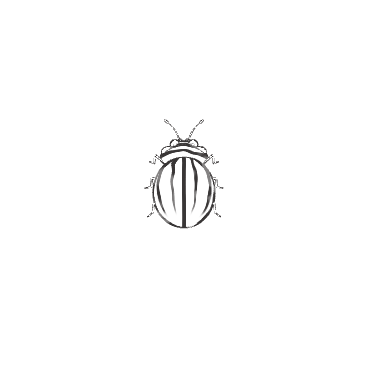
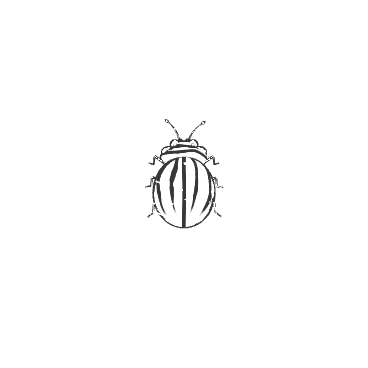
Nyrro as a real pen sketch everywhere (loader and header pictures redrawn); larger beetle that comes to look at you anywhere; footer as tall as the hero film; note at top left
- Nyrro: inky lines that swell and thin strongly, ragged edges, small pen lifts on the shell, wings in quick strokes; the loader's and header's first pictures (nyrro-20/64.png) redrawn from it, so the old clean drawing never shows
- Hero: 60px below the short line and above the longer line
- Film: beetle larger; it looks at you head on, anywhere in the box (no more side peeks)
- Footer: the same height as the hero film; the grey panel on Home and About a little darker
- About Nyrro: the button and its note at the top left of the film, the note kept inside the film (it scrolls)

Changed region(s): [[0.3886, 0.3288, 0.5978, 0.5978], [0.4484, 0.5679, 0.538, 0.6277], [0.4484, 0.3288, 0.4783, 0.3587]]

diff --git a/components/home/HeroFilm.tsx b/components/home/HeroFilm.tsx
@@ -276,7 +276,9 @@ void main(){
   // sketch: a pen in a hand, the line a little heavier here and lighter there along its length (fixed on the beetle)
   // (the large drawn parts, the shell and body, vary most; the fine legs and feelers stay whole)
   float bigPart = step(0.5, merid + rings);
-  pressure *= mix(1.0, 0.68 + 0.64 * noise(vObj.xz * 3.2 + vObj.y * 2.3 + 1.7), sketch * (0.35 + 0.65 * bigPart));
+  pressure *= mix(1.0, 0.4 + 1.3 * noise(vObj.xz * 4.5 + vObj.y * 3.1 + 1.7), sketch * (0.45 + 0.55 * bigPart));
+  // and its edge is ragged, as ink on paper
+  pressure *= mix(1.0, 0.8 + 0.4 * noise(vObj.xz * 26.0 + vObj.y * 19.0), sketch);
   // the outline: where the surface turns away from you
   float ndv = abs(dot(N, V));
   float fw = max(fwidth(ndv), 1e-4);
@@ -319,7 +321,7 @@ void main(){
     a = max(a, dotv * step(hash(cell + 3.1), dens) * 0.85);
   }
   // sketch: the pen lifts now and then, so lines stop short and start again; nothing is closed off neatly
-  a *= mix(1.0, smoothstep(0.14, 0.26, noise(vObj.xz * 8.5 + vObj.y * 5.5 + 11.0)), sketch * step(0.5, merid + rings));
+  a *= mix(1.0, smoothstep(0.08, 0.16, noise(vObj.xz * 14.0 + vObj.y * 9.0 + 11.0)), sketch * step(0.5, merid + rings));
   // far back in the haze the drawing fades
   a *= 1.0 - smoothstep(fogNear, fogFar, vDepth);
   // nothing is filled: only the ink shows; the paper is left as it is
@@ -788,7 +790,7 @@ export default function HeroFilm({ palette, place = "foot", from }: { palette?: 
     // further off than in the old full-width strip, so in a half-width box it is seen whole with room round it; and further
     // still in a box that is nearly as tall as it is wide, so it is the same size against the box's width everywhere
     const hb0 = host.getBoundingClientRect();
-    const D_K = 0.95 * clamp(Math.max(200, hb0.height) / Math.max(300, hb0.width) / 0.62, 1, 1.4); // a large beetle, close to you // one beetle everywhere: the same beetle, framed and flying as at the foot
+    const D_K = 0.78 * clamp(Math.max(200, hb0.height) / Math.max(300, hb0.width) / 0.62, 1, 1.4); // a large beetle, close to you // one beetle everywhere: the same beetle, framed and flying as at the foot
     const CLAY = palette ?? GREY; // the painting's own colours: its smoke and the paint the beetle leaves take them
     const box = host.getBoundingClientRect();
     const PW = Math.max(300, Math.round(box.width));
@@ -1035,7 +1037,7 @@ void main(){
       if (mayPerch && !out && t - wand.lastLook > 9) {
         const headingToSide = Math.cos(wand.h) * Math.sign(nx) > -0.2; // near a side and not flying away from it
         // mostly it comes to meet you face to face; now and then it settles at the side it has reached instead
-        if (Math.abs(nx) > 0.6 && headingToSide && Math.random() < 0.35) {
+        if (Math.abs(nx) > 0.6 && headingToSide && Math.random() < 0) { // (the side peek is set aside: it always comes to face you)
           fly.perch = true;
           fs.perchSide = nx > 0 ? 1 : -1;
           const end = onFrame(fs.perchSide * 0.95, TOP ? clamp(ny, -0.75, -0.3) : clamp(ny, Math.max(FLOOR_N, Math.min(-0.35, CEIL_N - 0.2)), Math.min(CEIL_N - 0.1, 0.2)), clamp(camera.position.distanceTo(fly.p), 7 * D_K, 8.5 * D_K), new THREE.Vector3());
@@ -1049,7 +1051,7 @@ void main(){
           fly.face = true;
           // it comes in to meet you: towards the middle and a little nearer, low enough that its raised wings and its whole
           // head stay in the frame
-          const spot = onFrame(clamp(nx * 0.4 + Math.cos(wand.h) * 0.15, -0.45, 0.45), TOP ? clamp(ny - 0.1, -0.8, -0.55) : clamp(ny, -0.2, 0.12), 10.5 * D_K, new THREE.Vector3()); // it hangs before you whole, wings and legs in the box
+          const spot = onFrame(clamp(nx * 0.85 + Math.cos(wand.h) * 0.2, -0.6, 0.6), TOP ? clamp(ny - 0.1, -0.8, -0.55) : clamp(ny + rnd(-0.15, 0.15), -0.3, 0.15), 10.5 * D_K, new THREE.Vector3()); // it hangs before you whole, wings and legs in the box
           lift(spot);
           fly.pts = [spot];
           fly.idx = 0;

diff --git a/components/copilot/beetle3d.ts b/components/copilot/beetle3d.ts
@@ -66,7 +66,7 @@ function sketchedWing(THREE: typeof THREE_NS, rgb: [number, number, number], siz
       // pressure: light at the start, full in the middle, lifting off at the end, a little unsteady
       // the pen lifts now and then (a small gap) and presses harder or lighter along the line
       if (Math.sin(i * 0.9 + seed * 4.3) > 0.93 && t > 0.1 && t < 0.9) continue;
-      g.lineWidth = Math.max(0.6, pen * 0.62 * (0.65 + 0.7 * (0.5 + 0.5 * Math.sin(t * 5.3 + seed * 2.1))));
+      g.lineWidth = Math.max(0.6, pen * 0.85 * (0.4 + 1.2 * (0.5 + 0.5 * Math.sin(t * 6.1 + seed * 2.1)) * (0.8 + 0.2 * Math.sin(i * 2.7 + seed))));
       g.beginPath();
       g.moveTo(q[i][0], q[i][1]);
       g.lineTo(q[i + 1][0], q[i + 1][1]);
@@ -149,7 +149,7 @@ export async function mountBeetle3D(box: HTMLElement, opts: { size: number; ink:
 
   // drawn with the film's pen: each line swells and tapers, as a sketch; the swell belongs to the beetle (objPress), so
   // as it flies its lines hold their shape instead of shimmering, and the wings stay drawn as they turn (edge)
-  const sk = { time: { value: 0 }, fogNear: { value: 60 }, fogFar: { value: 90 }, px: { value: pr * penFor(opts.size) }, ink: { value: new THREE.Vector3(...ink) }, even: { value: 1 }, objPress: { value: 0 }, edge: { value: new THREE.Vector2(0.0, 0.06) }, meridAng: { value: 1 }, backLines: { value: 1 }, waver: { value: 0.22 }, sketch: { value: 1 } };
+  const sk = { time: { value: 0 }, fogNear: { value: 60 }, fogFar: { value: 90 }, px: { value: pr * penFor(opts.size) }, ink: { value: new THREE.Vector3(...ink) }, even: { value: 1 }, objPress: { value: 0 }, edge: { value: new THREE.Vector2(0.0, 0.06) }, meridAng: { value: 1 }, backLines: { value: 1 }, waver: { value: 0.3 }, sketch: { value: 1 } };
   // the film's dust is sized for a beetle five times this one (its model drawn at scale 5): scaled to match, so each mote is
   // as fine against its body as in the film
   const proj = (C * pr) / (2 * Math.tan(((FOV / 2) * Math.PI) / 180)) / 5;
@@ -170,7 +170,7 @@ export async function mountBeetle3D(box: HTMLElement, opts: { size: number; ink:
     // few, clear lines, as in the logo: four grooves on each case, four rings on the head and shield, four bands on the belly
     if (m && m.isShaderMaterial && m.uniforms?.merid?.value === 6) m.uniforms.merid.value = 4;
     // one pen for every line: the outline drawn no heavier than the grooves and rings inside it (no bold edges)
-    if (m && m.isShaderMaterial && m.uniforms?.weight) m.uniforms.weight.value = 0.8;
+    if (m && m.isShaderMaterial && m.uniforms?.weight) m.uniforms.weight.value = 1.15; // a good, inky line, as a pen sketch
     if (m && m.isShaderMaterial && m.uniforms?.rings && (m.uniforms.rings.value === 7 || m.uniforms.rings.value === 3)) m.uniforms.rings.value = 4;
   });
   const shellMat = ((b.cases[0].children[0] as THREE_NS.Mesh).material as THREE_NS.ShaderMaterial);
@@ -204,7 +204,7 @@ export async function mountBeetle3D(box: HTMLElement, opts: { size: number; ink:
     // and the body is never two empty shells
     b.cases.forEach((c, i) => {
       const s = i === 0 ? 1 : -1;
-      c.rotation.set(0.32 * open + (i ? 0.03 : 0), s * 0.12 * open + (i ? 0.02 : -0.015), -s * 0.42 * open + (i ? 0.025 : 0));
+      c.rotation.set(0.32 * open, s * 0.12 * open, -s * 0.42 * open); // closed tight at rest: no gap down its back
     });
     shellMat.uniforms.weight.value = shellWeight * (1 - 0.15 * ease(open / 0.6));
     shellMat.uniforms.stripes.value = 1; // the cases keep their lines in every pose: the body is never an empty outline

diff --git a/components/layout/NyrroNote.tsx b/components/layout/NyrroNote.tsx
@@ -43,7 +43,7 @@ export default function NyrroNote() {
     // there is no gap between them, so the pointer can travel from one to the other
     <div
       ref={box}
-      className="pointer-events-none absolute right-4 top-4 z-10 flex flex-col items-end md:right-8 md:top-7"
+      className="pointer-events-none absolute left-4 top-4 bottom-4 z-10 flex flex-col items-start md:left-6 md:top-6 md:bottom-6"
       onPointerEnter={(e) => mouse(e) && show()}
       onPointerMove={(e) => mouse(e) && !open && show()}
       onPointerLeave={(e) => mouse(e) && hide()}
@@ -60,14 +60,14 @@ export default function NyrroNote() {
         About Nyrro
       </button>
 
-      <div className={`pt-2 ${open ? "pointer-events-auto" : "pointer-events-none"}`}>
+      <div className={`flex min-h-0 flex-1 flex-col pt-2 ${open ? "pointer-events-auto" : "pointer-events-none"}`}>
         <div
           id="nyrro-note"
           data-lenis-prevent
           role="region"
           aria-label="About Nyrro"
           aria-hidden={!open}
-          className={`max-h-[330px] w-[min(calc(100vw-40px),380px)] overflow-y-auto nyrro-paper border border-rule p-5 text-left md:max-h-none md:overflow-visible transition-[opacity,transform] duration-300 ease-[cubic-bezier(0.22,1,0.36,1)] ${open ? "translate-y-0 opacity-100" : "-translate-y-1.5 opacity-0"}`}
+          className={`max-h-full min-h-0 w-[min(calc(100vw-40px),380px)] overflow-y-auto nyrro-paper border border-rule p-5 text-left transition-[opacity,transform] duration-300 ease-[cubic-bezier(0.22,1,0.36,1)] ${open ? "translate-y-0 opacity-100" : "-translate-y-1.5 opacity-0"}`}
         >
           <h3 className="font-serif text-[17px] leading-[26px] md:text-[18px] md:leading-[28px] text-pigment">Nyrro &mdash; Nature in Colour</h3>
           <p className="mt-3 text-[15px] leading-6 text-pigment">

diff --git a/components/layout/Footer.tsx b/components/layout/Footer.tsx
@@ -9,7 +9,7 @@ import { usePathname } from "next/navigation";
 import { site } from "@/lib/site";
 
 // Home and About: the right half is a lighter grey than the film beside it
-const STONE: Scheme = scheme("stone", "#828282", "#fafafa", "#585858", "#9c9c9c");
+const STONE: Scheme = scheme("stone", "#727272", "#fafafa", "#585858", "#9c9c9c");
 // each case study: the right half is painted in that case's own colour
 const CASE_SCHEME: Record<string, keyof typeof SCHEMES> = { "enterprise-search": "mist", adeo: "moss", "ai-agent": "clay", hdfc: "slate", sony: "sage" };
 
@@ -26,8 +26,9 @@ export default function Footer() {
   const art = pathname === "/" || pathname === "/about";
   return (
     <footer className={art ? "mt-24 md:mt-40 lg:mt-60" : "mt-14 md:mt-[90px] lg:mt-[140px]"}>
-      <div className="grid md:grid-cols-2" style={{ minHeight: "clamp(380px, 28vw, 620px)" }}>
-        <div className="relative h-[300px] overflow-hidden md:h-auto" style={{ background: "#6e6e6e" }}>
+      {/* as tall as the film at the top of the home page */}
+      <div className="grid md:grid-cols-2 md:[height:clamp(260px,23vw,480px)]">
+        <div className="relative h-[260px] overflow-hidden md:h-auto" style={{ background: "#6e6e6e" }}>
           <HeroInk palette={inkPalette(SCHEMES.film)} spread={false} refHeight={900} speed={1.6} grain={1} />
           <HeroFilm from={pathname === "/" ? "top-right" : undefined} />
           <FilmShade />

diff --git a/components/home/Hero.tsx b/components/home/Hero.tsx
@@ -20,7 +20,7 @@ export default function Hero() {
     <section className="overflow-x-clip">
       <div
         className="flex flex-col justify-between px-5 pt-[72px] md:grid md:grid-cols-2 md:px-0"
-        style={{ minHeight: `max(240px, calc(100svh - 57px - ${FILM_H} - 100px))`, paddingBottom: 72 }}
+        style={{ minHeight: `max(240px, calc(100svh - 57px - ${FILM_H} - 100px))`, paddingBottom: 60 }}
       >
         <h1 className="font-serif text-[1.875rem] leading-[40px] md:px-8 md:text-[2.5rem] md:leading-[1.35]">I’m Vishnu</h1>
         <p className="mt-10 max-w-[35rem] text-[17px] leading-[26px] md:col-start-2 md:mt-0 md:self-end md:pr-8 md:text-lg md:leading-[1.5]">
@@ -28,7 +28,7 @@ export default function Hero() {
         </p>
       </div>
       <div className="grid border-t border-rule md:grid-cols-2">
-        <p className="px-5 pb-8 pt-[72px] text-[17px] leading-[26px] md:px-8 md:text-lg md:leading-[1.5]">
+        <p className="px-5 pb-8 pt-[60px] text-[17px] leading-[26px] md:px-8 md:text-lg md:leading-[1.5]">
           I design experiences for the complex systems that run real work.
         </p>
         <div className="relative h-[260px] md:h-auto" style={{ background: "#6e6e6e" }}>
